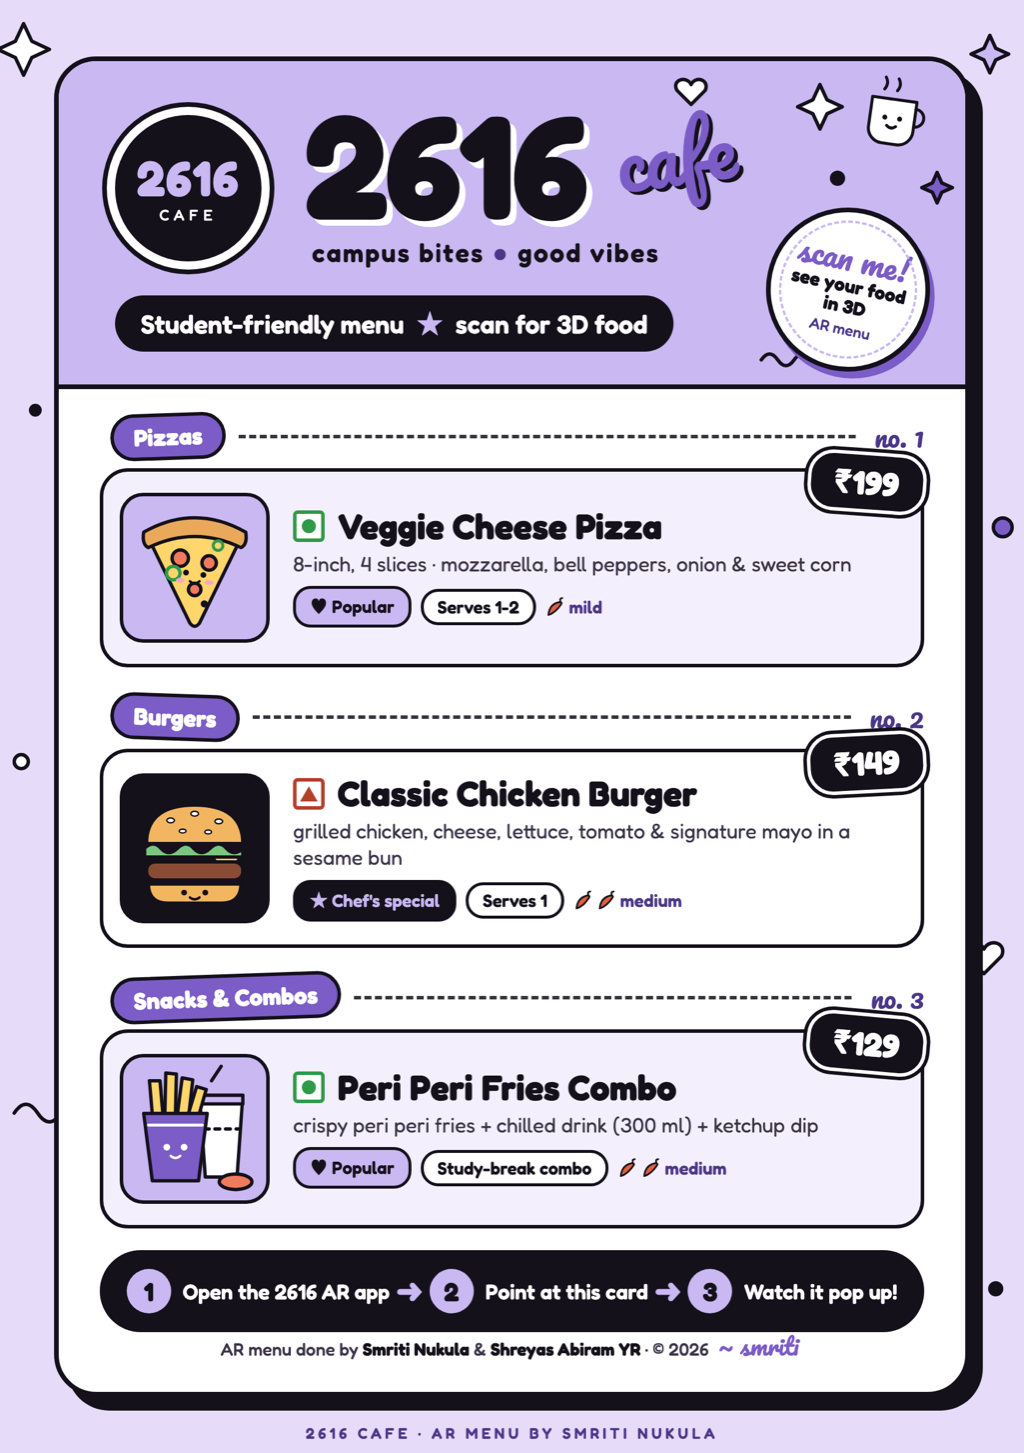
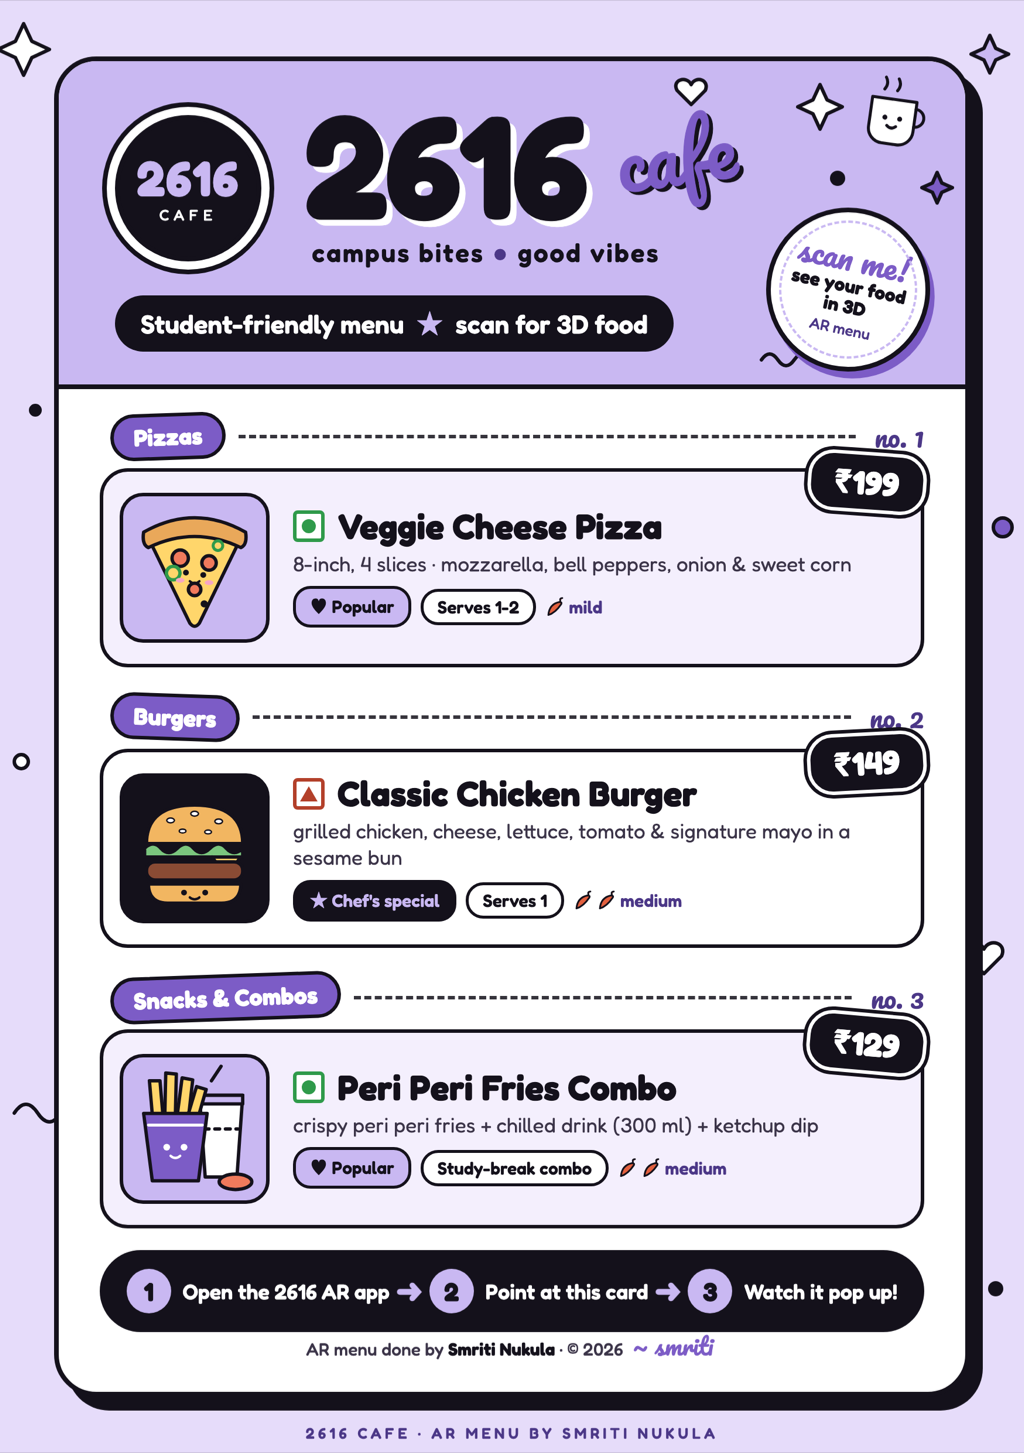
Menu card: credit Smriti Nukula only; keep teammate credit in the app UI
- Re-render the A5 menu card (PDF, 300 dpi PNG) and the Vuforia
  tracking texture with the updated footer
- Update the README and MenuCard/README credits
- Ignore the local-only Handbook folder

Changed region(s): [[0.3125, 0.8981, 0.625, 0.9601], [0.6562, 0.8981, 0.7188, 0.9601], [0.75, 0.8981, 0.7812, 0.9291]]

diff --git a/MenuCard/source/menu_card.html b/MenuCard/source/menu_card.html
@@ -259,7 +259,7 @@
     <div class="step"><div class="n">3</div>Watch it pop up!</div>
   </div>
 
-  <div class="footer">AR menu done by <b>Smriti Nukula</b> &amp; <b>Shreyas Abiram YR</b> &middot; &copy; 2026 <span class="sig">~ smriti</span></div>
+  <div class="footer">AR menu done by <b>Smriti Nukula</b> &middot; &copy; 2026 <span class="sig">~ smriti</span></div>
 </div>
 
 <div class="outside-credit">2616 CAFE &middot; AR MENU BY SMRITI NUKULA</div>

diff --git a/README.md b/README.md
@@ -180,20 +180,9 @@ food-menu-information-ar/
 
 ## 👩💻 Done by
 
-<table>
-<tr>
-<td align="center">
 <b>Smriti Nukula</b><br/>
 XR Developer · Unity Developer · Creative Technologist<br/>
-<a href="https://github.com/smritinukula16">GitHub</a> ·
-<a href="https://www.linkedin.com/in/smriti-n-04739a300">LinkedIn</a>
-</td>
-<td align="center">
-<b>Shreyas Abiram YR</b><br/>
-Teammate
-</td>
-</tr>
-</table>
+<a href="https://github.com/smritinukula16">GitHub</a> · <a href="https://www.linkedin.com/in/smriti-n-04739a300">LinkedIn</a>
 
 ---
 
@@ -212,4 +201,4 @@ Teammate
 All product names, logos and trademarks belong to their respective owners.
 The menu content and prices are sample data for demonstration purposes.
 
-© 2026 Smriti Nukula & Shreyas Abiram YR. All rights reserved.
+© 2026 Smriti Nukula. All rights reserved.

diff --git a/MenuCard/README.md b/MenuCard/README.md
@@ -22,4 +22,4 @@ Edit `source/menu_card.html`, re-render it (e.g. Chrome headless screenshot at 1
 If you change prices or dishes on the card, update `Assets/ARMenu/Resources/ARMenu/menu_data.json` too.
 
 ## Credits
-Done by: Smriti Nukula & Shreyas Abiram YR · Fonts: Fredoka and Pacifico (SIL Open Font License 1.1, licences in `source/fonts`).
+Done by: Smriti Nukula · Fonts: Fredoka and Pacifico (SIL Open Font License 1.1, licences in `source/fonts`).
